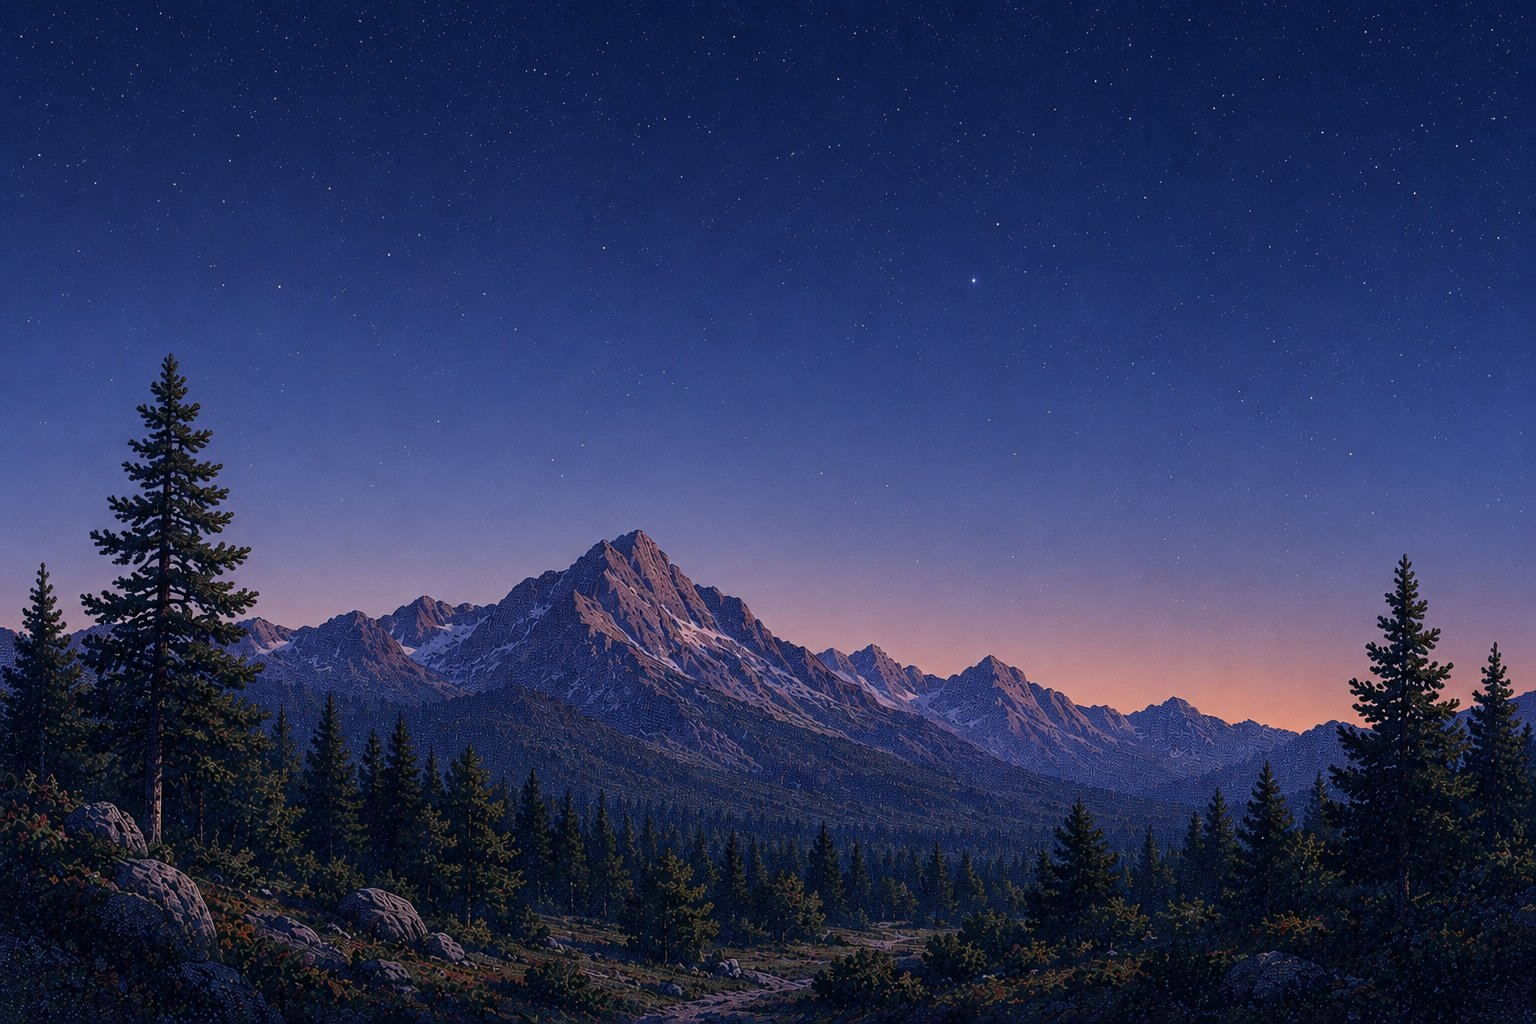
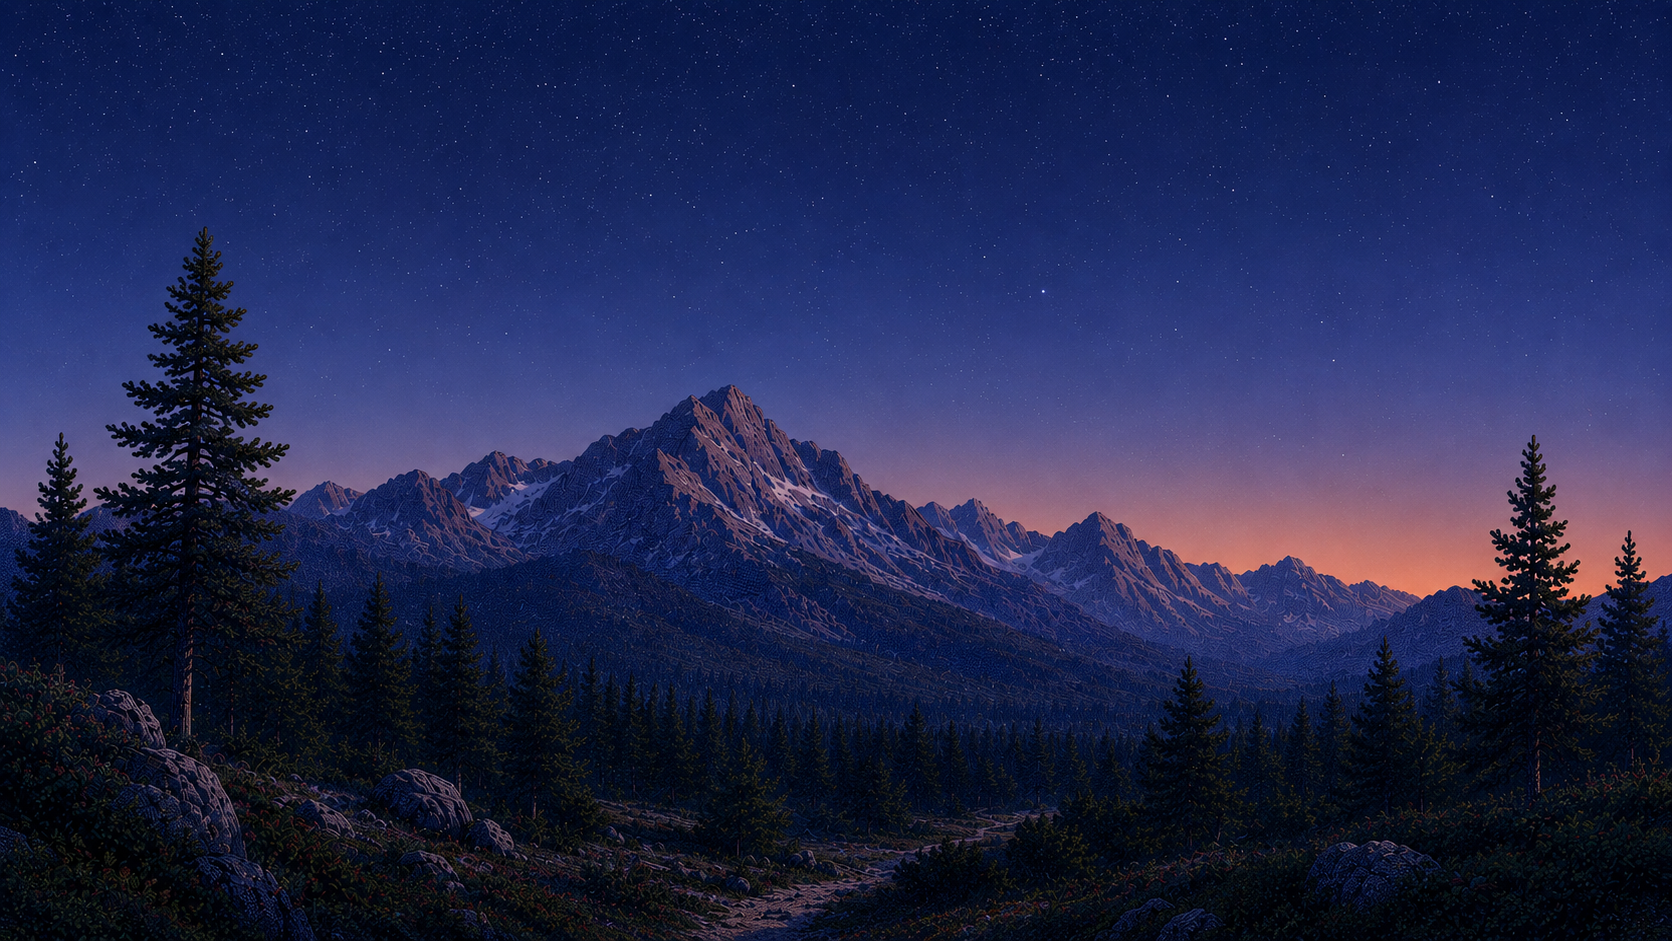
New background images

diff --git a/frontend/src/index.css b/frontend/src/index.css
@@ -222,19 +222,19 @@ html {
 
 html.light {
   background-color: #f5f5f7;
-  --glass-bg: rgba(0, 0, 0, 0.35);
-  --glass-bg-20: rgba(0, 0, 0, 0.4);
-  --glass-bg-30: rgba(0, 0, 0, 0.5);
+  --glass-bg: rgba(0, 0, 0, 0.18);
+  --glass-bg-20: rgba(0, 0, 0, 0.24);
+  --glass-bg-30: rgba(0, 0, 0, 0.35);
   --btn-bg: rgba(0, 0, 0, 0.25);
   --btn-border: rgba(255, 255, 255, 0.12);
 }
 
 html[data-period="morning"] {
-  --glass-bg: rgba(0, 0, 0, 0.35);
-  --glass-bg-20: rgba(0, 0, 0, 0.4);
-  --glass-bg-30: rgba(0, 0, 0, 0.5);
+  --glass-bg: rgba(0, 0, 0, 0.18);
+  --glass-bg-20: rgba(0, 0, 0, 0.24);
+  --glass-bg-30: rgba(0, 0, 0, 0.35);
   --glass-text-muted: rgba(255, 255, 255, 0.7);
-  --heading-text: rgba(0, 0, 0, 0.65);
+  --heading-text: #f5f5f7;
 }
 
 ::-webkit-scrollbar {